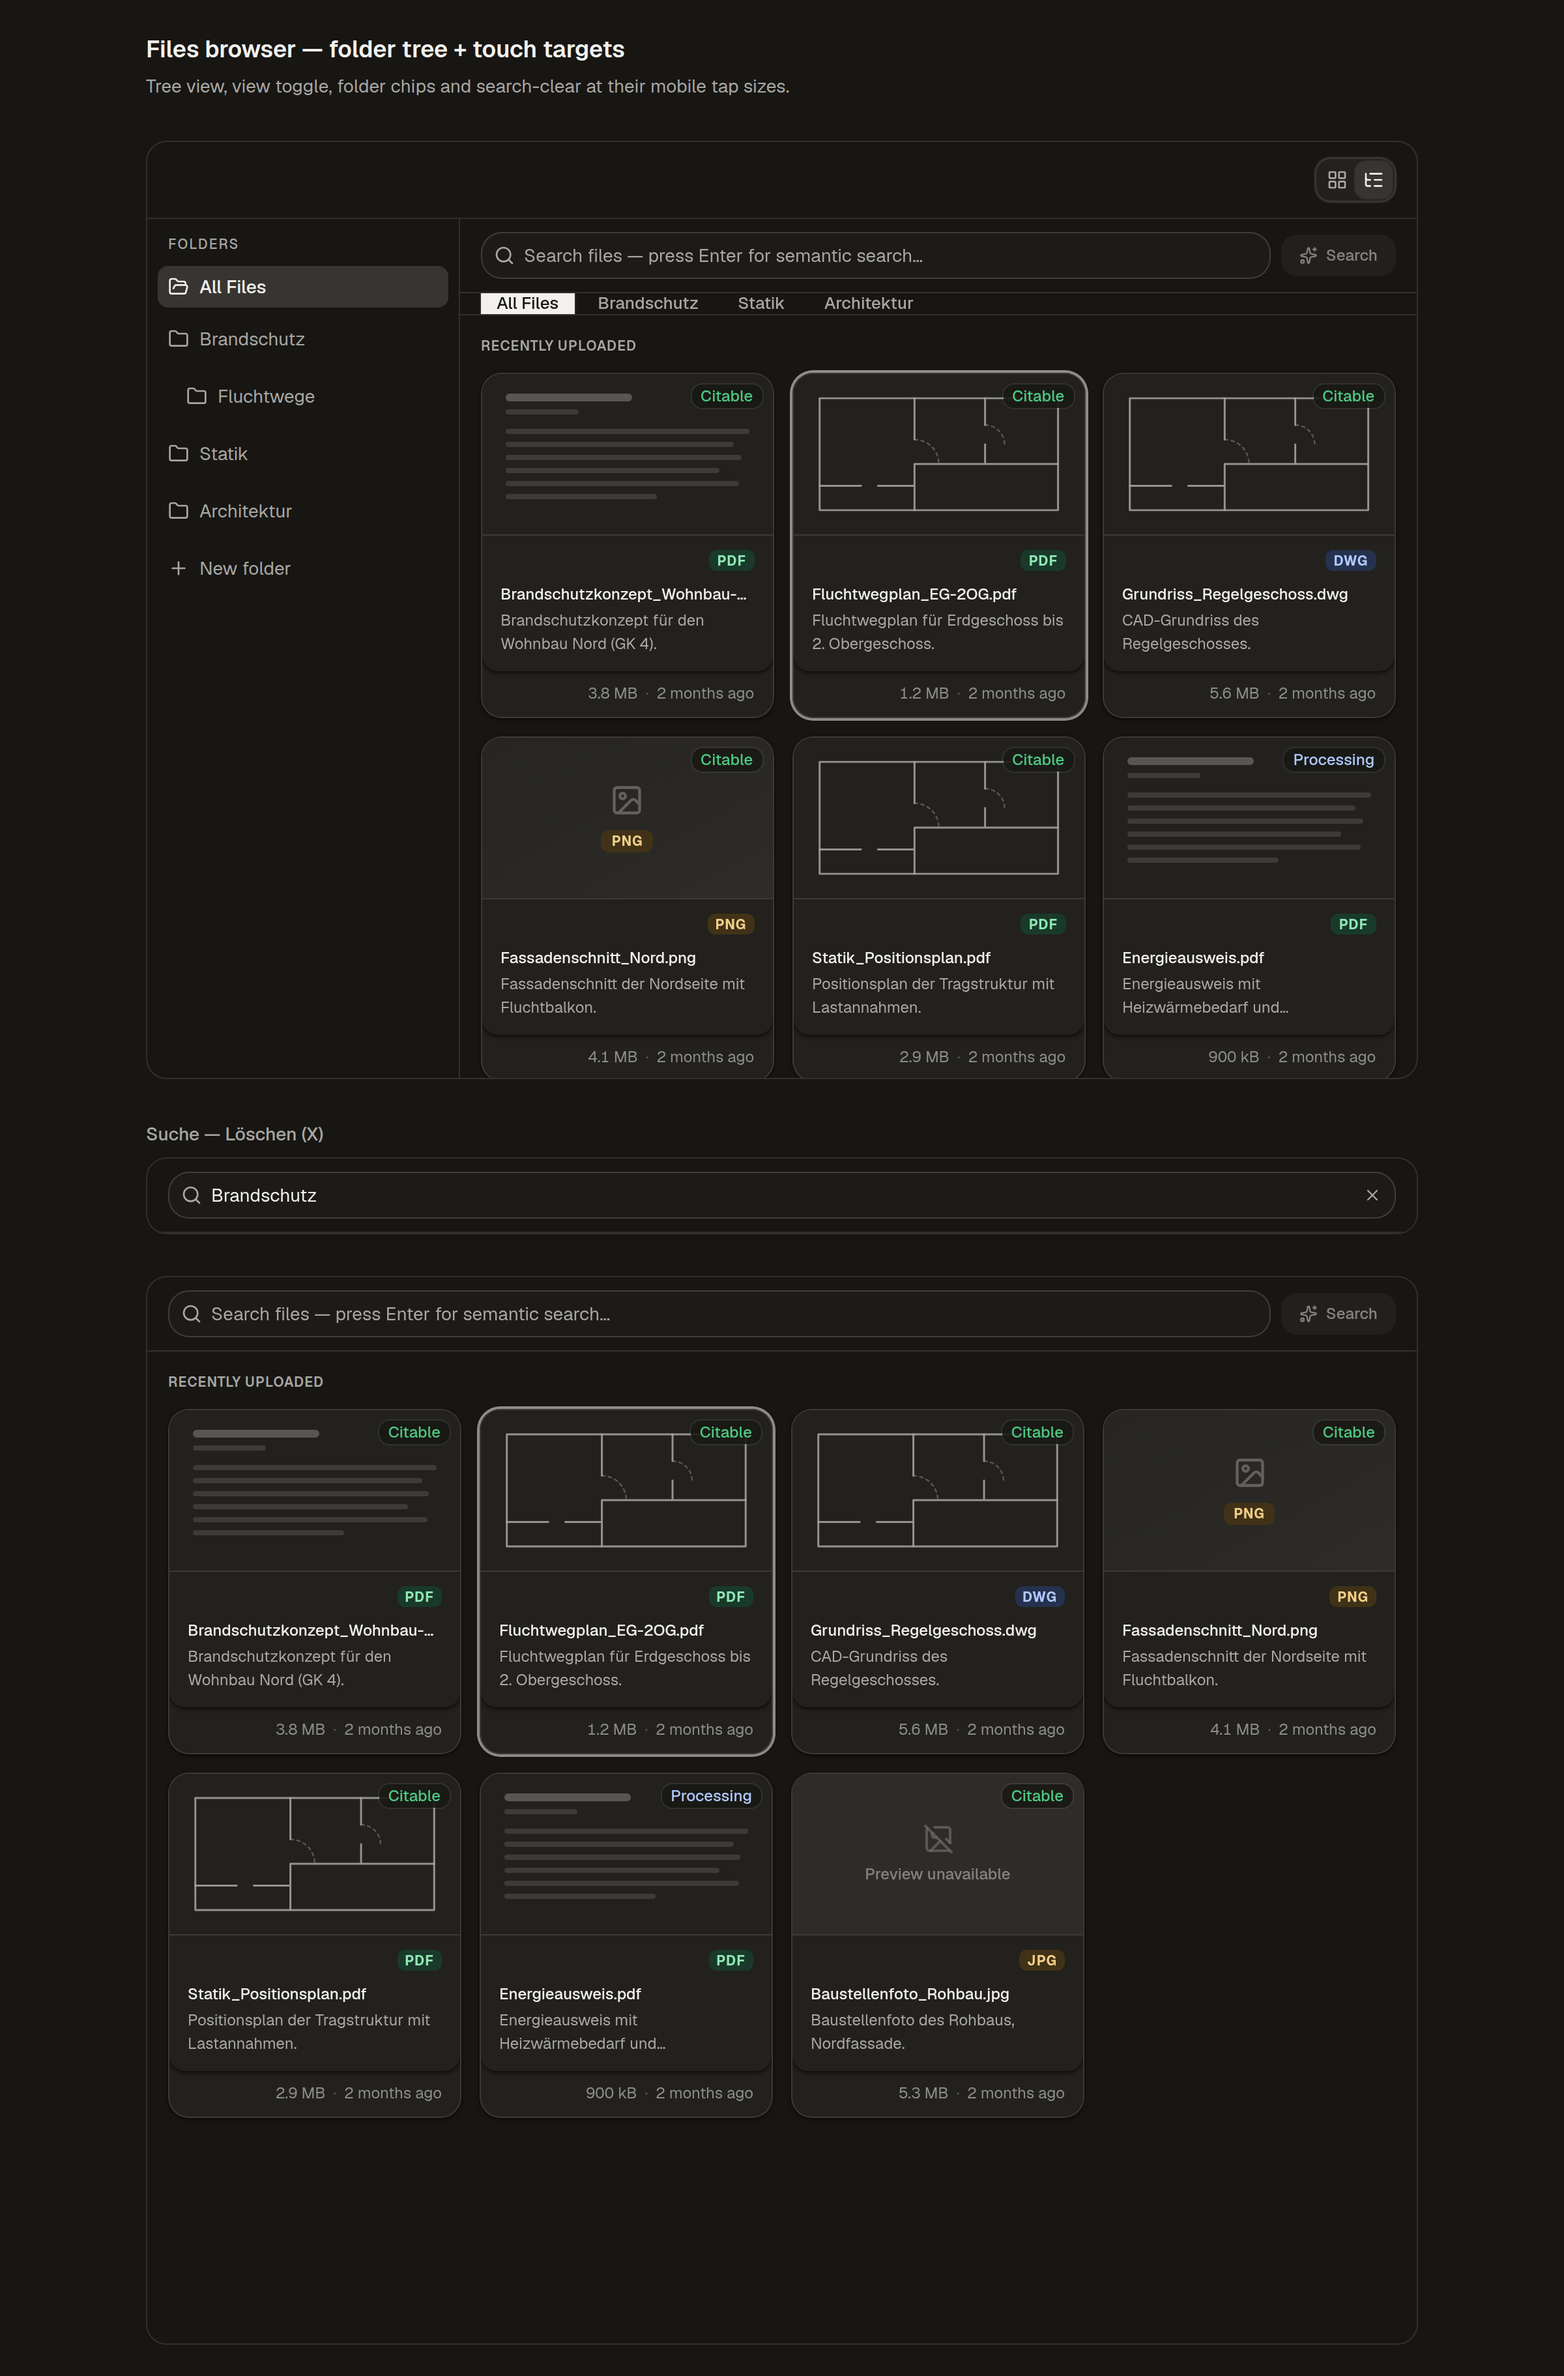
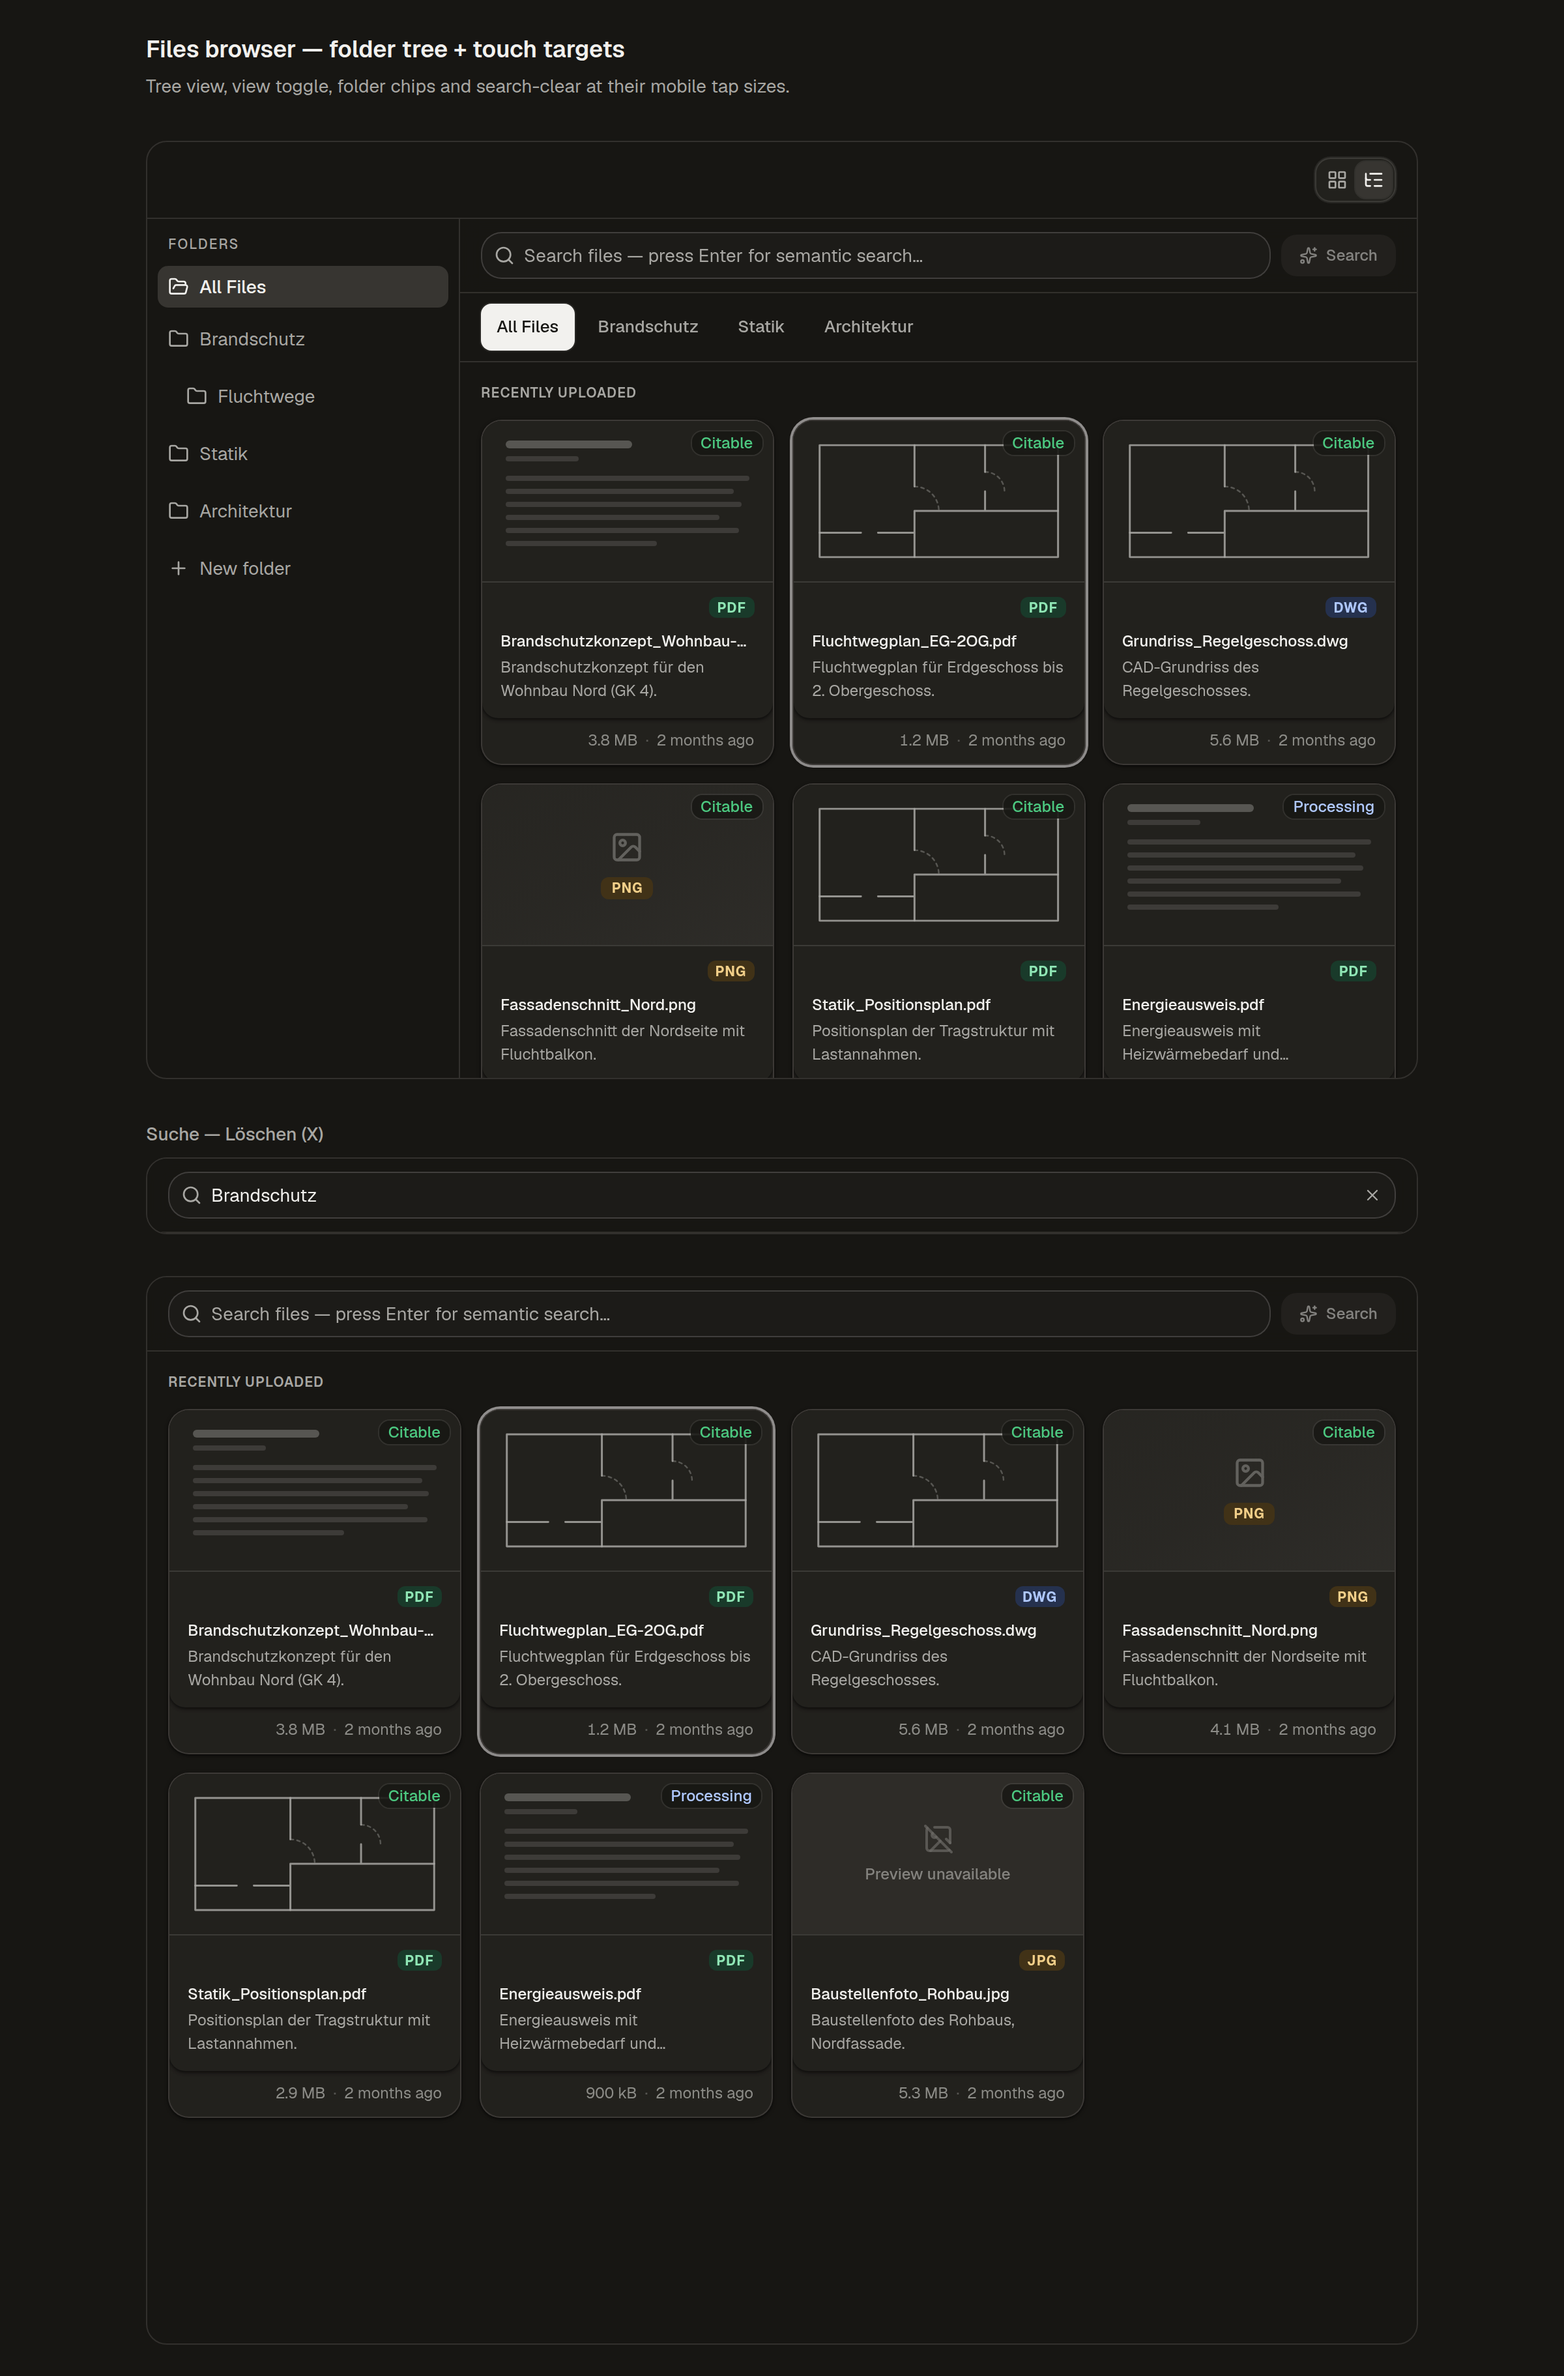
fix(files): the folder chips keep their height under a scrolling list
The chip row above the file grid collapsed onto its own padding as soon as
the listing was tall enough to scroll, so the folder names were clipped
through the middle of their letters — the pill lost its rounded ends and
the descenders and umlauts of "Abgabepläne" were cut off.

The row is a flex item of a column that is `h-full` — one viewport tall —
while the grid beneath it is as tall as the corpus, so the column runs a
negative free space the moment a project holds more than a screenful. An
item whose overflow is visible cannot shrink below its content, which is
what protects every other child; `md:overflow-x-auto` waives that
automatic minimum size, so the whole deficit landed on this one row.

`shrink-0` states the rule the layout depended on: chrome above a listing
never absorbs the listing's overflow. The sticky search band, the semantic
banner and the Archiv category row say the same thing now — none of them
can collapse today, but each is one `overflow` declaration away from it.

Claude-Session: https://claude.ai/code/session_01K3ZWxHVcn67aDyCnbA1QsC

diff --git a/frontends/ui/src/features/documents/components/file-search-bar.tsx b/frontends/ui/src/features/documents/components/file-search-bar.tsx
@@ -52,8 +52,10 @@ export function FileSearchBar({
   return (
     <>
       {/* 95% + `backdrop-blur` is a frosted sticky band, not a hand-derived
-          surface: the list has to stay faintly visible scrolling under it. */}
-      <div className="sticky top-0 z-10 border-b bg-background/95 px-4 py-2.5 backdrop-blur">
+          surface: the list has to stay faintly visible scrolling under it.
+          `shrink-0` on both bands says the same thing the chip row now says:
+          chrome above a listing never absorbs the listing's overflow. */}
+      <div className="sticky top-0 z-10 shrink-0 border-b bg-background/95 px-4 py-2.5 backdrop-blur">
         <form
           className="flex min-h-9 items-center gap-2"
           onSubmit={(e) => {
@@ -96,7 +98,7 @@ export function FileSearchBar({
 
       {semanticActive && (
         <div
-          className="flex min-h-9 items-center gap-2 border-b border-primary/20 bg-primary/5 px-4 py-2 text-xs animate-in fade-in-0 duration-base ease-out motion-reduce:animate-none"
+          className="flex min-h-9 shrink-0 items-center gap-2 border-b border-primary/20 bg-primary/5 px-4 py-2 text-xs animate-in fade-in-0 duration-base ease-out motion-reduce:animate-none"
           role="status"
           data-testid={bannerTestId}
         >

diff --git a/frontends/ui/src/features/documents/components/file-browser-pane.tsx b/frontends/ui/src/features/documents/components/file-browser-pane.tsx
@@ -202,7 +202,16 @@ export function FileBrowserPane({
         <div
           // Wrap on mobile so the last folder pill is never clipped at the
           // right edge; keep a single scrollable row from md up (where it fits).
-          className="flex flex-wrap items-center gap-1.5 border-b px-4 py-2 md:flex-nowrap md:overflow-x-auto"
+          //
+          // `shrink-0` is what keeps the pills READABLE. This row is a flex item
+          // of a column that is `h-full` — one viewport tall — while the grid
+          // below it is as tall as the corpus, so the column runs a negative free
+          // space the moment the listing scrolls. Every other child refuses to
+          // absorb it (an item whose overflow is visible cannot shrink below its
+          // content), but `overflow-x-auto` drops this one's automatic minimum
+          // size to zero, so the whole deficit landed here: the row collapsed to
+          // its padding and clipped the pills through the middle of their labels.
+          className="flex shrink-0 flex-wrap items-center gap-1.5 border-b px-4 py-2 md:flex-nowrap md:overflow-x-auto"
           role="group"
           aria-label={t('folders.heading')}
         >

diff --git a/frontends/ui/src/features/documents/components/file-browser-pane.spec.tsx b/frontends/ui/src/features/documents/components/file-browser-pane.spec.tsx
@@ -142,6 +142,17 @@ describe('FileBrowserPane — folder chips', () => {
     renderPane()
     expect(screen.queryByRole('button', { name: 'All Files' })).not.toBeInTheDocument()
   })
+
+  // The row is a flex item of a column that is one viewport tall while the grid
+  // under it is as tall as the corpus, and `overflow-x-auto` waives its
+  // automatic minimum size — so without `shrink-0` the browser hands it the
+  // whole negative free space and it collapses onto its own padding, clipping
+  // the pills through the middle of their labels. jsdom does no layout, so what
+  // is pinned here is the declaration that prevents it.
+  it('never absorbs the column’s overflow — the chip row cannot shrink', () => {
+    renderPane({ folders, selectedFolderId: null, onSelectFolder: vi.fn() })
+    expect(screen.getByRole('group', { name: 'Folders' })).toHaveClass('shrink-0')
+  })
 })
 
 describe('FileBrowserPane — search', () => {

diff --git a/frontends/ui/src/features/documents/components/archiv-library-pane.tsx b/frontends/ui/src/features/documents/components/archiv-library-pane.tsx
@@ -224,7 +224,7 @@ export function ArchivLibraryPane({
           semantic mode (the query is the context). */}
       {!semantic.active && categories.length > 0 && (
         <div
-          className="flex min-h-12 flex-wrap items-center gap-1.5 border-b px-4 py-2"
+          className="flex min-h-12 shrink-0 flex-wrap items-center gap-1.5 border-b px-4 py-2"
           role="group"
           aria-label={t('library.categoriesLabel')}
         >
